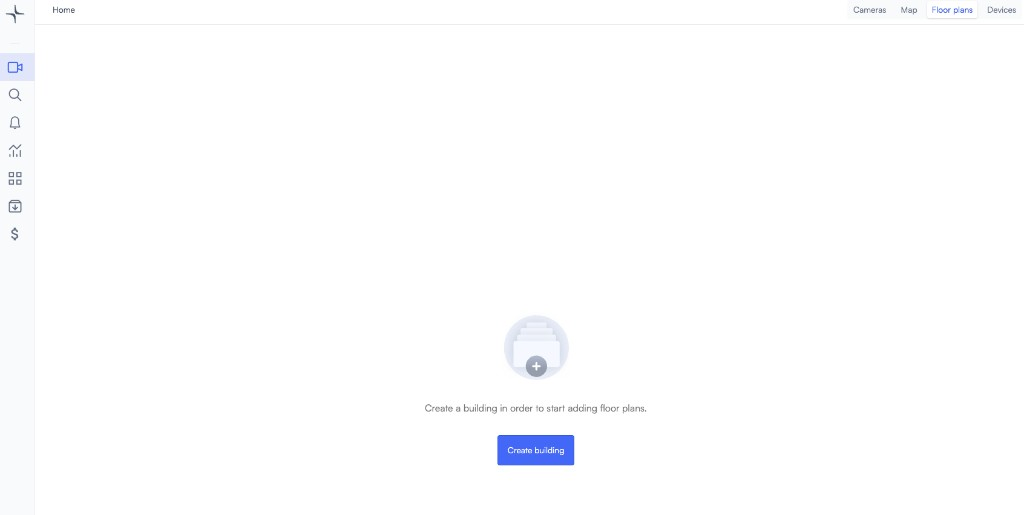
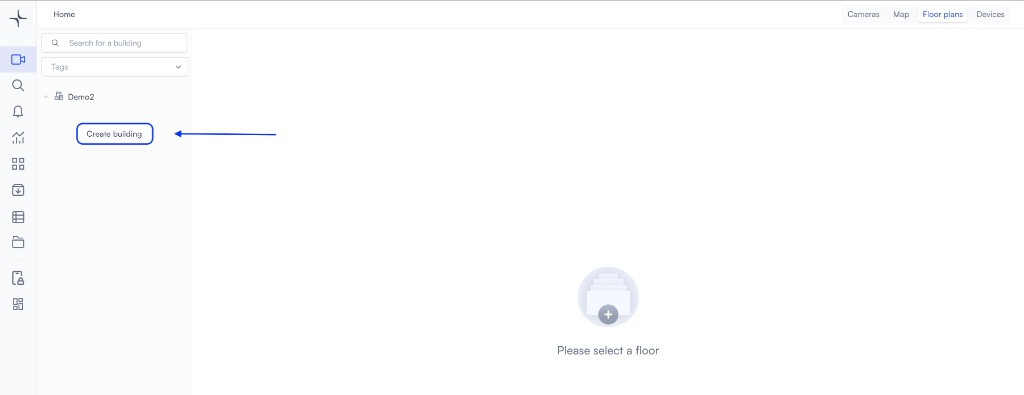
updated floor plan

diff --git a/set-up-cameras-and-devices/set-up-a-camera-floor-plan.md b/set-up-cameras-and-devices/set-up-a-camera-floor-plan.md
@@ -17,23 +17,27 @@ Floor plans tie each camera to a location on your site, which makes coverage eas
 
 ### Use the camera floor plan feature
 
-1. Go to Floor Plans menu
+1. Go to Floor Plans menu at the top left corner of the screen
 
 <div align="center" data-with-frame="true"><img src="../.gitbook/assets/configuring-cameras-and-devices/set-up-a-camera-floor-plan/floor-plans-menu-overview.png" alt="Floor Plans menu overview." width="563"></div>
 
-2. Create building
+2. Select **Create building**
 
-<div align="center" data-with-frame="true"><img src="../.gitbook/assets/configuring-cameras-and-devices/set-up-a-camera-floor-plan/create-building-floor-plans.png" alt="Floor Plans page with Create building action." width="563"></div>
+<div align="center" data-with-frame="true"><img src="../.gitbook/assets/configuring-cameras-and-devices/set-up-a-camera-floor-plan/create-building-floor-plans.png" alt="Floor Plans page with building list; arrow points to the Create building button." width="563"></div>
 
-3. Upload a floor plan
+3. Enter a **Building name** and select **Create** to create the building
 
-<div align="center" data-with-frame="true"><img src="../.gitbook/assets/configuring-cameras-and-devices/set-up-a-camera-floor-plan/upload-floor-plan-dialog.png" alt="Create floor plan dialog with upload area." width="563"></div>
+<div align="center" data-with-frame="true"><img src="../.gitbook/assets/configuring-cameras-and-devices/set-up-a-camera-floor-plan/add-building-name-and-create.png" alt="Create building dialog with Building name field, Discard, and Create." width="563"></div>
 
-4. Select on the Camera icon to start adding and positioning your cameras on the floor plan
+4. Upload a floor plan. In the **Create floor plan** dialog, at the top, enter a **Floor name** (left) and optionally add **Tags** in the field on the right. Then add your image using drag and drop or **Or upload from your computer** (PNG or JPG). 
 
-5. Save when finished
+<div align="center" data-with-frame="true"><img src="../.gitbook/assets/configuring-cameras-and-devices/set-up-a-camera-floor-plan/upload-floor-plan-dialog.png" alt="Create floor plan dialog with Floor name, Tags, drag-and-drop upload area, and Add floor plan." width="563"></div>
 
-<div align="center" data-with-frame="true"><img src="../.gitbook/assets/configuring-cameras-and-devices/set-up-a-camera-floor-plan/edit-floor-plan-layout.png" alt="Floor plan editor with camera placement and save action." width="563"></div>
+5. Select the <img src="../.gitbook/assets/configuring-cameras-and-devices/set-up-a-camera-floor-plan/floor-plan-add-camera-icon.png" alt="Add camera" data-size="line"> icon in the top right corner to start adding and positioning your cameras on the floor plan
+
+6. Select **Add floor plan** to save the floor plan.
+
+<div align="center" data-with-frame="true"><img src="../.gitbook/assets/configuring-cameras-and-devices/set-up-a-camera-floor-plan/edit-floor-plan-layout.png" alt="" width="563"></div>
 
 Now you are able to view the floor plan, when you hover over a camera you will get a live view for it.
 
